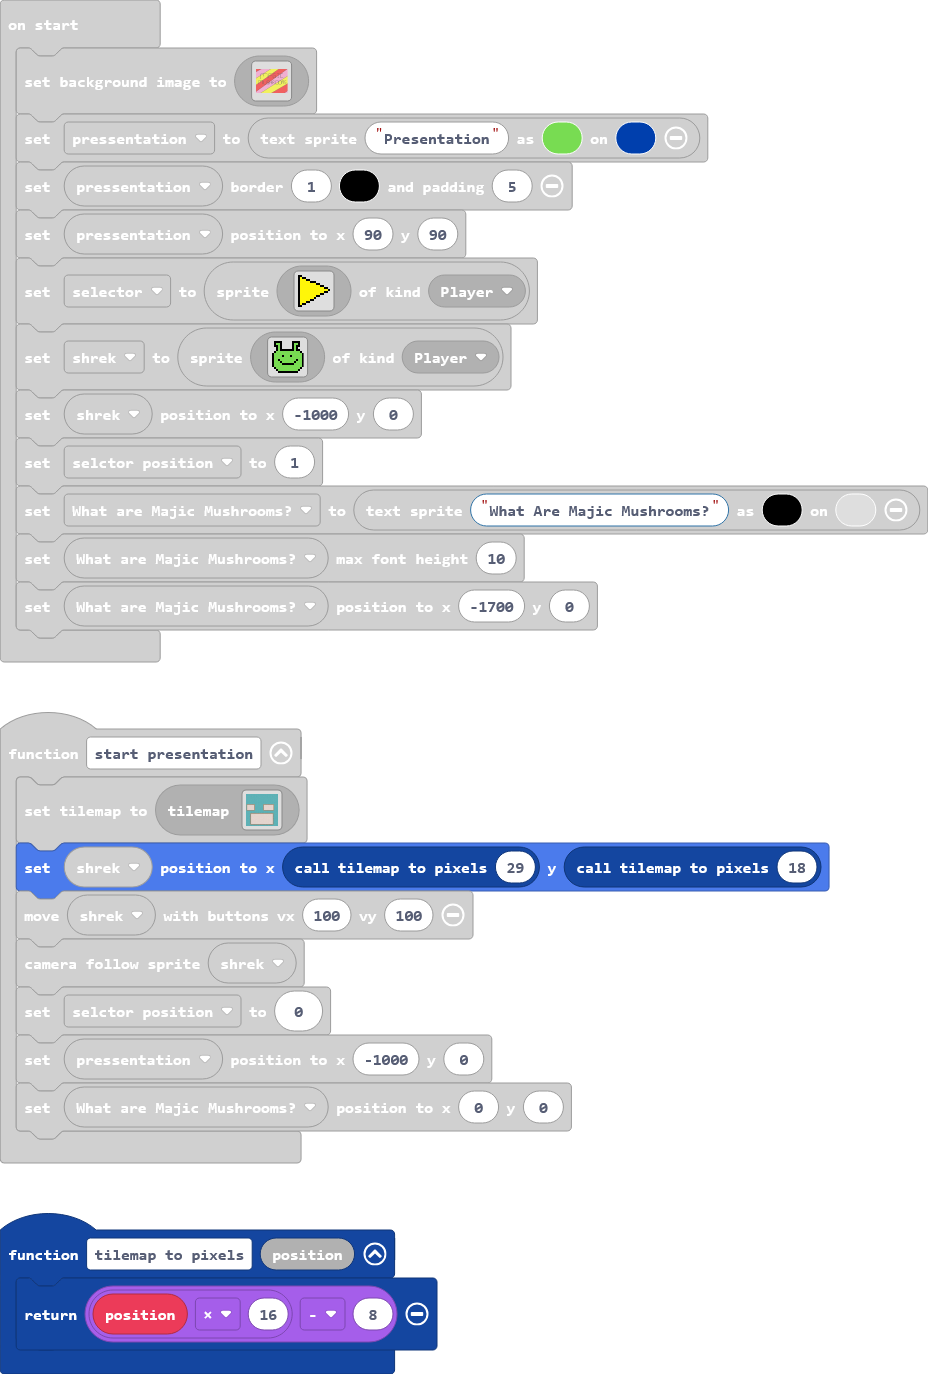
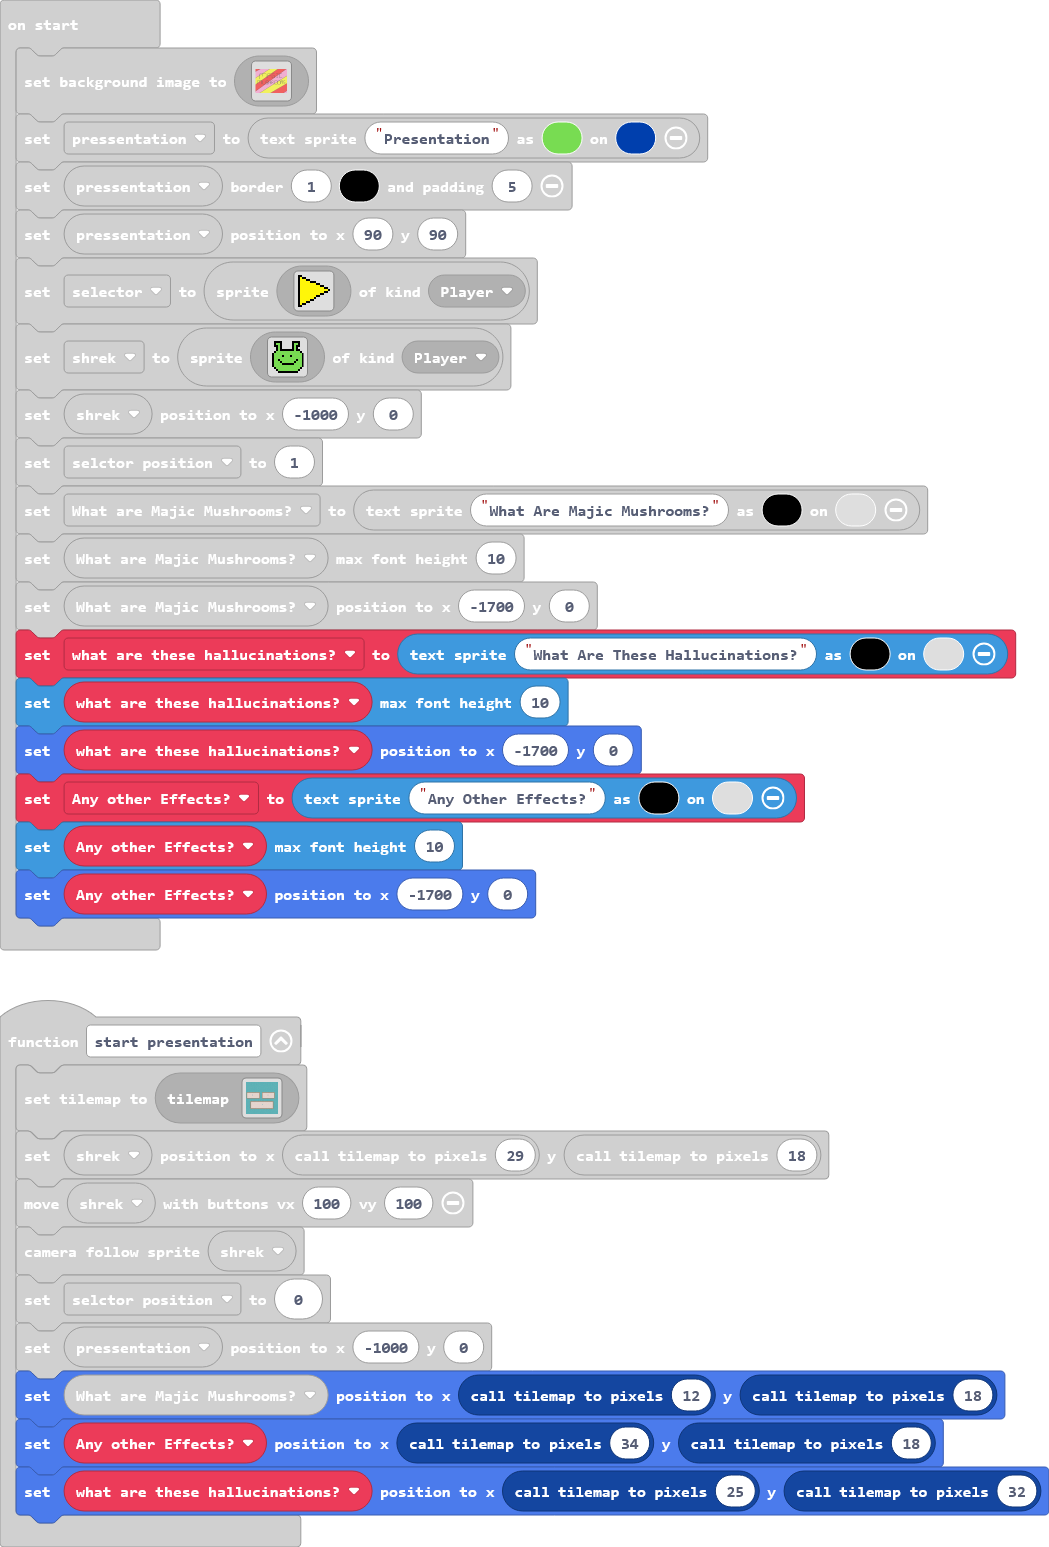
I added all three titles to the three categorys of my presentation

diff --git a/tilemap.g.ts b/tilemap.g.ts
@@ -53,7 +53,7 @@ namespace myTiles {
 . . . . . . . . . . . . . . . . 
 `, [myTiles.transparency16], TileScale.Sixteen);
             case "level2":
[2 lines of base64/hex data omitted]
 ..................................................
 ..................................................
 ..................................................

diff --git a/main.ts b/main.ts
@@ -58,7 +58,9 @@ function start_presentation () {
     scene.cameraFollowSprite(shrek)
     selctor_position = 0
     pressentation.setPosition(-1000, 0)
-    What_are_Majic_Mushrooms.setPosition(0, 0)
+    What_are_Majic_Mushrooms.setPosition(tilemap_to_pixels(12), tilemap_to_pixels(18))
+    Any_other_Effects.setPosition(tilemap_to_pixels(34), tilemap_to_pixels(18))
+    what_are_these_hallucinations.setPosition(tilemap_to_pixels(25), tilemap_to_pixels(32))
 }
 controller.down.onEvent(ControllerButtonEvent.Pressed, function () {
     if (selctor_position > 0) {
@@ -68,6 +70,8 @@ controller.down.onEvent(ControllerButtonEvent.Pressed, function () {
 function tilemap_to_pixels (position: number) {
     return position * 16 - 8
 }
+let Any_other_Effects: TextSprite = null
+let what_are_these_hallucinations: TextSprite = null
 let What_are_Majic_Mushrooms: TextSprite = null
 let selctor_position = 0
 let shrek: Sprite = null
@@ -238,6 +242,12 @@ selctor_position = 1
 What_are_Majic_Mushrooms = textsprite.create("What Are Majic Mushrooms?", 0, 15)
 What_are_Majic_Mushrooms.setMaxFontHeight(10)
 What_are_Majic_Mushrooms.setPosition(-1700, 0)
+what_are_these_hallucinations = textsprite.create("What Are These Hallucinations?", 0, 15)
+what_are_these_hallucinations.setMaxFontHeight(10)
+what_are_these_hallucinations.setPosition(-1700, 0)
+Any_other_Effects = textsprite.create("Any Other Effects?", 0, 15)
+Any_other_Effects.setMaxFontHeight(10)
+Any_other_Effects.setPosition(-1700, 0)
 game.onUpdate(function () {
     if (selctor_position == 1) {
         selector.setPosition(30, 90)
